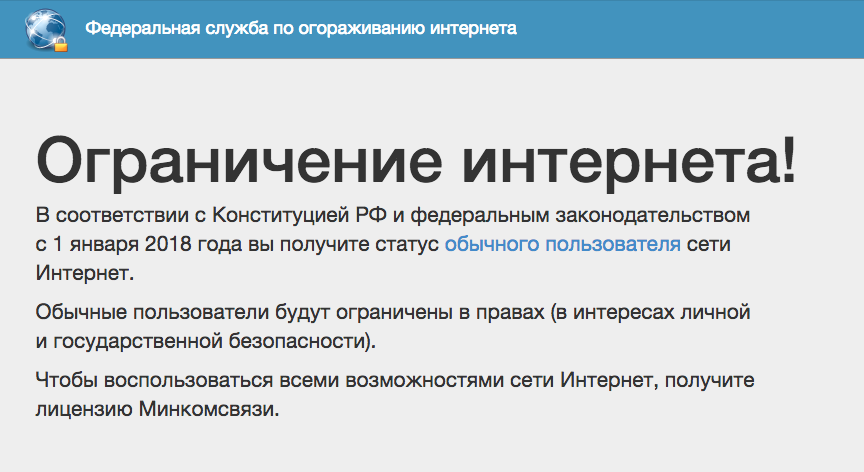
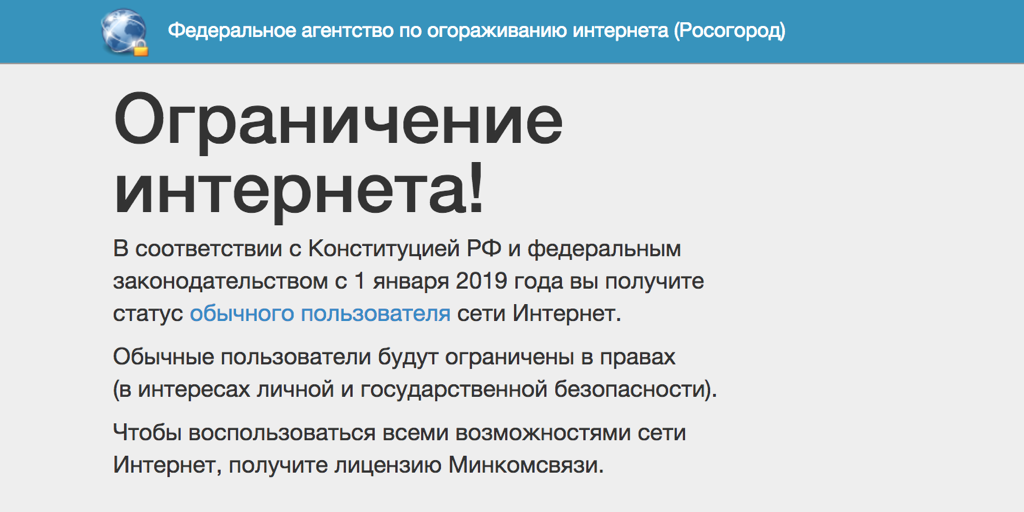
2019

Changed region(s): [[0.0312, 0.178, 0.9375, 0.9492], [0.0312, 0.0, 0.7812, 0.1186]]

diff --git a/index.html b/index.html
@@ -3,19 +3,19 @@
   <head>
     <meta charset="utf-8">
     <meta name="viewport" content="width=device-width, initial-scale=1.0">
-    <meta name="description" content="Федеральная служба по огораживанию интернета">
-    <meta name="author" content="ФСОАИ">
+    <meta name="description" content="Федеральное агентство по огораживанию интернета">
+    <meta name="author" content="Росогород">
 
     <meta property="og:site_name" content="rosenc.ru">
-    <meta property="og:title" content="Ограничение интернета с 2018 года">
-    <meta property="og:description" content="Федеральная служба по огораживанию интернета предлагает россиянам получить лицензию привилегированных пользователей">
+    <meta property="og:title" content="Ограничение интернета с 2019 года">
+    <meta property="og:description" content="Федеральное агентство по огораживанию интернета предлагает россиянам получить лицензию привилегированных пользователей">
     <meta property="og:image" content="http://rosenc.ru/i/rosenc.png">
     <meta name="twitter:card" content="summary_large_image">
-    <meta name="twitter:title" content="Ограничение интернета с 2018 года">
-    <meta name="twitter:description" content="Федеральная служба по огораживанию интернета предлагает россиянам получить лицензию привилегированных пользователей">
+    <meta name="twitter:title" content="Ограничение интернета с 2019 года">
+    <meta name="twitter:description" content="Федеральное агентство по огораживанию интернета предлагает россиянам получить лицензию привилегированных пользователей">
     <meta name="twitter:image:src" content="http://rosenc.ru/i/rosenc.png">
 
-    <title>Ограничение интернета с 2018 года!</title>
+    <title>Ограничение интернета с 2019 года!</title>
 
     <link rel="shortcut icon" href="i/favicon.png">
     <link href="css/bootstrap.min.css" rel="stylesheet">
@@ -33,7 +33,7 @@
 
     <header>
       <div class="container">
-        <p>Федеральная служба по огораживанию интернета</p>
+        <p>Федеральное агентство по огораживанию интернета (Росогород)</p>
       </div>
     </header>
 
@@ -42,7 +42,7 @@
         <h1>Ограничение интернета!</h1>
         <div class="row">
           <div class="col-xs-12 col-sm-10 col-md-8">
-            <p>В соответствии с Конституцией РФ и федеральным законодательством с 1 января 2018 года вы получите статус <a href="#user">обычного пользователя</a> сети Интернет.</p>
+            <p>В соответствии с Конституцией РФ и федеральным законодательством с 1 января 2019 года вы получите статус <a href="#user">обычного пользователя</a> сети Интернет.</p>
             <p>Обычные пользователи будут ограничены в правах (в интересах личной и государственной безопасности).</p>
             <p>Чтобы воспользоваться всеми возможностями сети Интернет, получите лицензию Минкомсвязи.</p>
           </div>
@@ -55,7 +55,7 @@
         <div class="row">
           <div class="col-xs-12 col-sm-10 col-md-8">
             <h1>Ваша заявка принята</h1>
-            <p>Она будет рассмотрена, и после личного собеседования в ФСОАИ вы получите лицензию сроком на 3 месяца.</p>
+            <p>Она будет рассмотрена, и после личного собеседования в Росогороде вы получите лицензию сроком на 3 месяца.</p>
             <p><a class="btn btn-primary btn-lg" href="https://ru.wikipedia.org/wiki/Шапочка_из_фольги">Я понял »</a></p>
           </div>
         </div>
@@ -79,7 +79,7 @@
             <li>Выходить в интернет до <span class="nowrap">5 раз</span> в месяц.</li>
             <li>Посещать сайт <a href="http://kremlin.ru">kremlin.ru</a>, <a href="http://gosuslugi.ru">gosuslugi.ru</a> и сайты органов государственной власти.</li>
             <li>Пользоваться <a href="http://sputnik.ru">Национальной поисковой системой</a>.</li>
-            <li>Общаться в одобренном ФСБ <a href="https://agent.mail.ru">мессенджере</a>.</li>
+            <li>Общаться в одобренном ФСБ <a href="https://tamtam.chat/">мессенджере</a>.</li>
           </ul>
         </div>
         <div class="col-md-6">
@@ -125,13 +125,13 @@
           <tr>
             <td>Разрешенные сайты</td>
             <td>Госпоиск<br/>Сайты органов власти</td>
-            <td>Сайты из белого списка Роскомнадзора</td>
+            <td>Сайты из белого списка Росогорода</td>
             <td class="granted"><span class="glyphicon glyphicon-ok"></span></td>
           </tr>
           <tr>
             <td>Общение в мессенджерах</td>
-            <td>Агент Mail.Ru<br>до 100 сообщений в месяц</td>
-            <td>Агент Mail.Ru<br>без ограничений</td>
+            <td>ТамТам<br>до 100 сообщений в месяц</td>
+            <td>ТамТам<br>без ограничений</td>
             <td class="granted"><span class="glyphicon glyphicon-ok"></span></td>
           </tr>
           <tr>
@@ -260,7 +260,7 @@
     <hr>
 
     <footer class="container">
-      <small class="text-muted">Федеральная служба по анальному огораживанию интернета.<br> Распространение этой информации приветствуется.</small>
+      <small class="text-muted">Федеральное агентство по анальному огораживанию интернета.<br> Распространение этой информации приветствуется.</small>
       <div class="social-likes">
         <div class="facebook" title="Поделиться ссылкой на Фейсбуке">Facebook</div>
         <div class="twitter" title="Поделиться ссылкой в Твиттере">Twitter</div>
